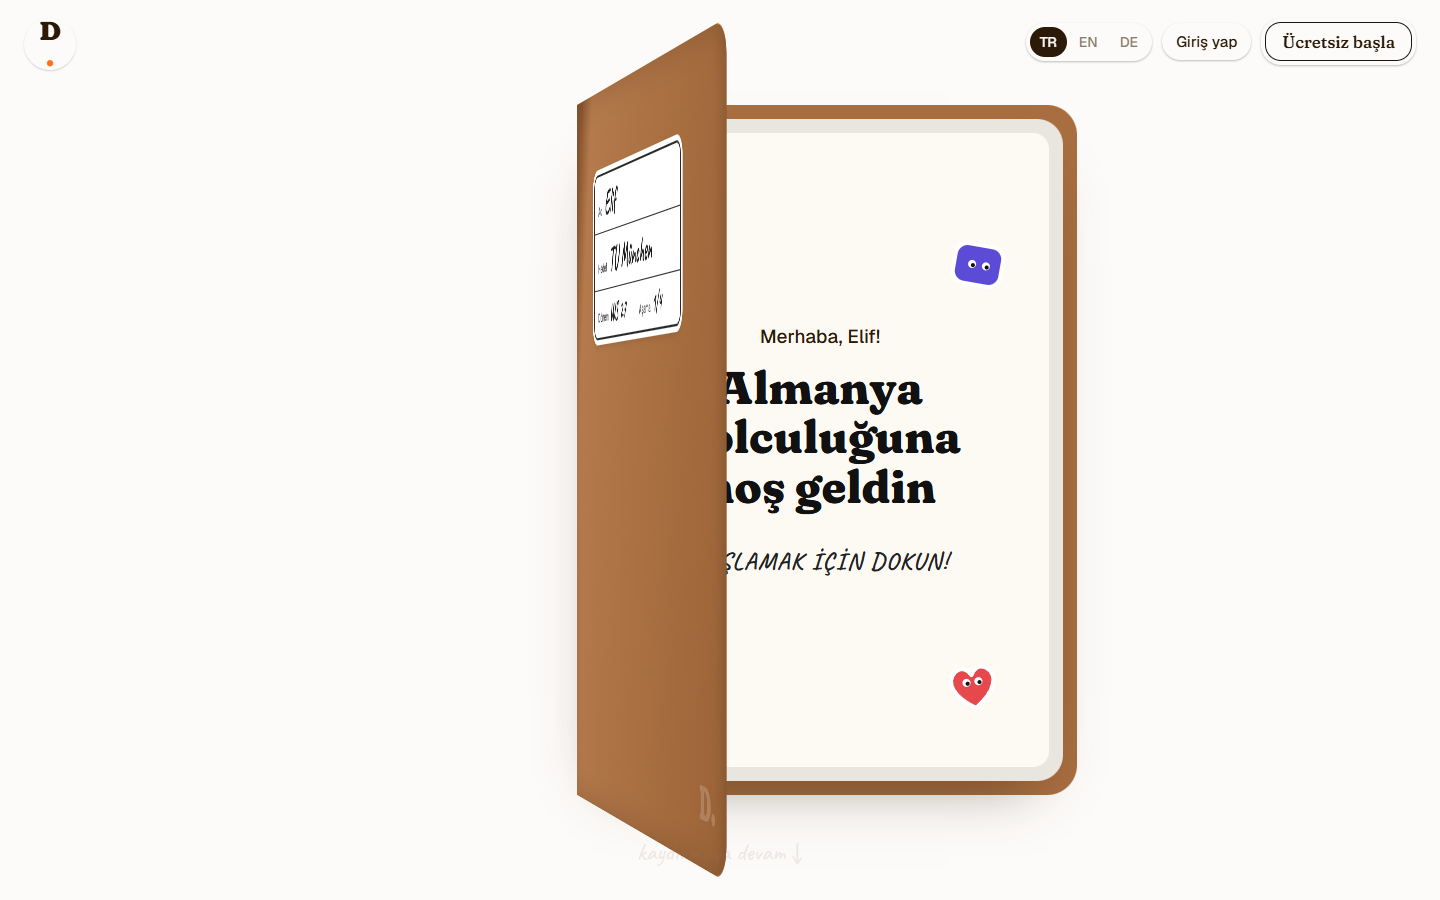
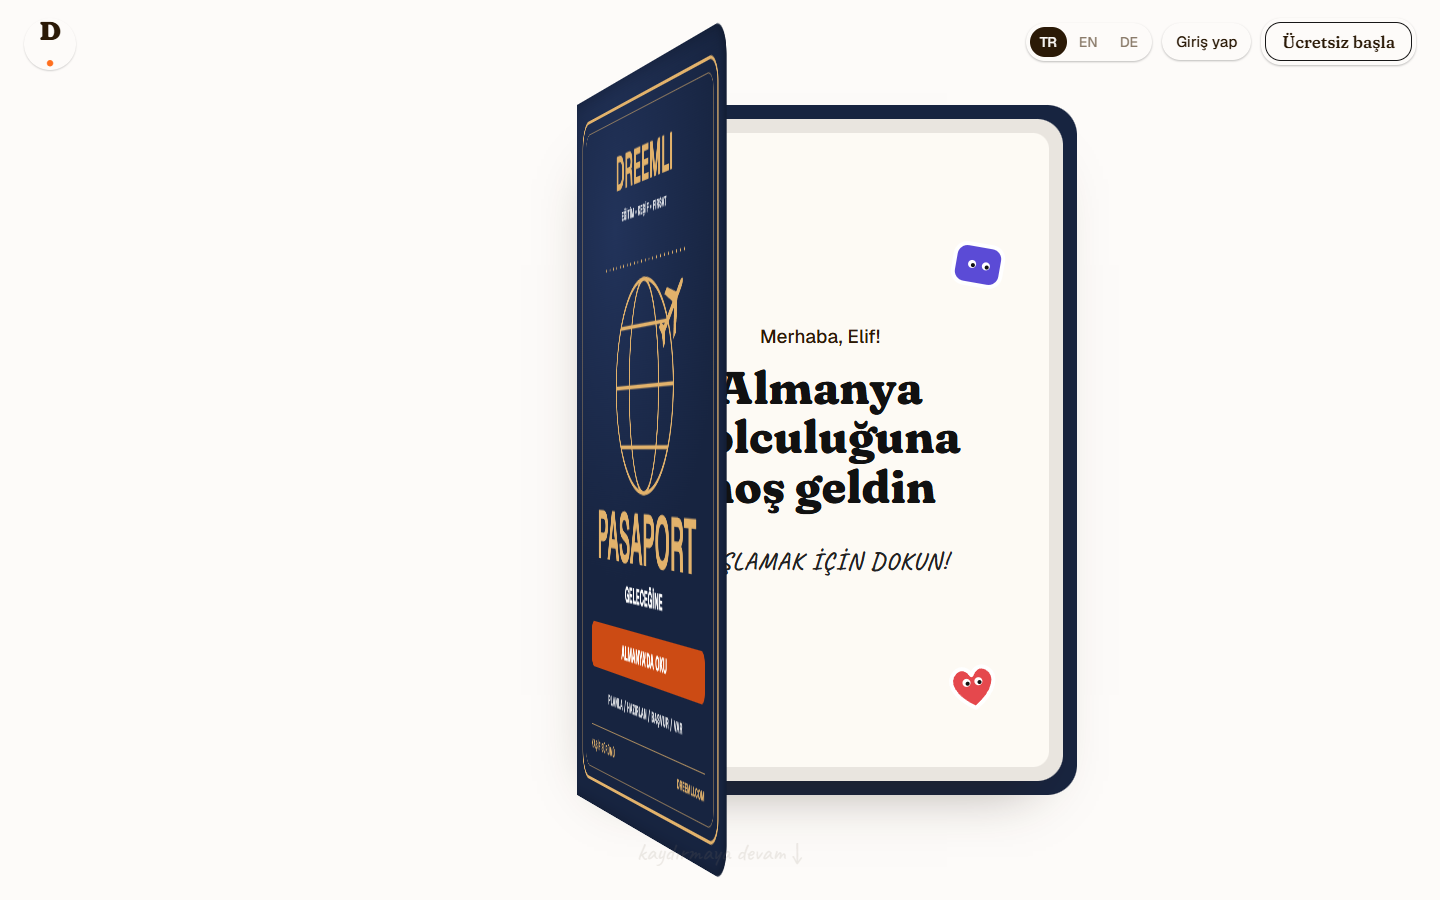
Use a passport-style cover in the paper-notebook example
Rebuild the cover of Dreemli's printed "Passport to your future"
booklet in HTML/SVG (navy, double gold frame, globe and plane, orange
band) and use it for both the hero notebook and the scroll-opening
cover, in TR/EN/DE. Document the "cover from print material" option in
SKILL.md and the components reference, and refresh the screenshots.

Changed region(s): [[0.375, 0.0311, 0.75, 0.9644]]

diff --git a/skills/paper-notebook-landing/example/index.html b/skills/paper-notebook-landing/example/index.html
@@ -26,6 +26,7 @@
   --sticky:#fadb4b; --sticky-2:#f5cf30;
   --red:#e5484d;
   --leather:#a86e40;
+  --navy:#172440; --gold:#e2b26b; --brand-orange:#cc4b14;   /* Dreemli pasaport broşürü */
   --f-display:"Fraunces","Gelica","Recoleta",Georgia,serif;
   --f-body:"Geist","Inter",system-ui,sans-serif;
   --f-hand:"Caveat","Segoe Print",cursive;
@@ -72,22 +73,29 @@ svg text{font-family:var(--f-hand)}
 .scroll-hint{font-size:24px;color:var(--muted);margin-top:8px}
 
 .book-stage{position:relative;height:520px}
-.book{position:absolute;right:40px;top:10px;width:380px;height:500px;border-radius:12px 26px 26px 12px;transform:rotate(-14deg);
-  background:linear-gradient(105deg,#7a4c2a 0 4%,#a26a3f 5% 12%,#b47a4b 30%,#9d6538 100%);box-shadow:inset -10px 0 24px rgba(0,0,0,.18),0 30px 50px -20px rgba(70,40,10,.45)}
-.book::after{content:"D.";position:absolute;right:24px;bottom:22px;font:900 30px var(--f-display);font-variation-settings:"SOFT" 100;color:rgba(255,255,255,.18)}
-.label{position:absolute;left:96px;top:96px;width:230px;background:#fff;border:2px solid #2a2a2a;border-radius:12px;box-shadow:0 0 0 5px #fff,0 3px 10px rgba(0,0,0,.25);font:500 11px var(--f-body);color:#333}
-.label .row{display:flex;gap:10px;align-items:baseline;padding:8px 12px;border-bottom:1.5px solid #2a2a2a}
-.label .row:last-child{border:0}
-.label .row b{font:700 30px/1 var(--f-hand);color:#1a1a1a}
-.label .split{display:grid;grid-template-columns:1fr 1fr}
-.label .split div{display:flex;gap:6px;align-items:baseline;padding:8px 12px}
-.label .split div+div{border-left:1.5px solid #2a2a2a}
-.label .split b{font:700 22px/1 var(--f-hand);color:#1a1a1a}
+.book{position:absolute;right:40px;top:10px;width:380px;height:500px;border-radius:18px;transform:rotate(-14deg);container-type:inline-size;
+  box-shadow:0 30px 50px -20px rgba(10,20,45,.55)}
+
+/* ---- pasaport kapağı (broşürdeki "Passport to your future") ---- */
+.pp{position:absolute;inset:0;border-radius:inherit;padding:4.5cqw;color:#fff;font-family:var(--f-body);
+  background:radial-gradient(120% 80% at 30% 20%,#22335a,var(--navy) 60%);box-shadow:inset -1.2cqw 0 3cqw rgba(0,0,0,.25)}
+.pp-frame{position:relative;height:100%;border:.75cqw solid var(--gold);border-radius:5cqw;padding:8cqw 7cqw 5.5cqw;
+  display:flex;flex-direction:column;align-items:center;text-align:center}
+.pp-frame::before{content:"";position:absolute;inset:2cqw;border:.3cqw solid rgba(226,178,107,.55);border-radius:3.4cqw;pointer-events:none}
+.pp-brand{font:700 8.6cqw/1 var(--f-body);color:var(--gold);letter-spacing:.03em}
+.pp-tag{font:600 2.2cqw/1.3 var(--f-body);letter-spacing:.12em;color:rgba(255,255,255,.85);margin-top:2.4cqw;white-space:nowrap}
+.pp-globe{flex:1 1 0;min-height:0;width:100%;margin:3cqw 0 1cqw}
+.pp-title{font:800 12.5cqw/1 var(--f-body);color:var(--gold);letter-spacing:.02em}
+.pp-sub{font:700 3.8cqw/1.2 var(--f-body);letter-spacing:.06em;margin-top:2cqw}
+.pp-cta{margin-top:4cqw;width:100%;background:var(--brand-orange);border-radius:2cqw;padding:2.6cqw 2cqw;font:700 3.4cqw/1.1 var(--f-body);letter-spacing:.04em;white-space:nowrap}
+.pp-stages{font:600 2.4cqw/1.3 var(--f-body);letter-spacing:.1em;color:rgba(255,255,255,.85);margin-top:4cqw;white-space:nowrap}
+.pp-foot{margin-top:4cqw;width:100%;display:flex;justify-content:space-between;gap:2cqw;border-top:.3cqw solid rgba(226,178,107,.7);padding-top:2.4cqw;
+  font:700 2.1cqw/1.2 var(--f-body);letter-spacing:.08em;color:var(--gold)}
 .pencil{position:absolute;right:6px;top:120px;width:20px;height:380px;transform:rotate(-16deg);border-radius:4px 4px 0 0;
   background:linear-gradient(90deg,#e7a900,#ffcf2e 40%,#f5bd00);box-shadow:2px 6px 10px rgba(0,0,0,.2)}
 .pencil::before{content:"";position:absolute;top:-22px;left:0;width:20px;height:24px;border-radius:6px 6px 0 0;background:linear-gradient(#ef8a8a 0 60%,#c9c9c9 60%)}
 .pencil::after{content:"";position:absolute;bottom:-30px;left:0;border-left:10px solid transparent;border-right:10px solid transparent;border-top:30px solid #f1d2a8}
-.book-stage .hand.tag{position:absolute;left:10px;bottom:30px;font-size:24px;transform:rotate(-4deg);color:var(--ink)}
+.book-stage .hand.tag{position:absolute;right:30px;bottom:-56px;font-size:24px;transform:rotate(-4deg);color:var(--ink)}
 
 /* ---- kaydırınca açılan defter ---- */
 main{overflow-x:clip}
@@ -97,13 +105,13 @@ main{overflow-x:clip}
 /* --dx/--dy/--rot/--s: hero'daki yerinden sahnenin ortasına taşınma; --p: kapağın açılması */
 .ob-book{position:relative;width:min(1000px,94vw);aspect-ratio:1.45;perspective:2400px;container-type:inline-size;transform-origin:75% 50%;
   transform:translate(calc(var(--dx) * 1px),calc(var(--dy) * 1px)) translateX(calc(-25% * (1 - var(--p)))) rotate(calc(var(--rot) * 1deg)) scale(var(--s))}
-.ob-left{position:absolute;inset:0 50% 0 0;border-radius:3cqw 0 0 3cqw;background:linear-gradient(90deg,#9a6337,var(--leather));
+.ob-left{position:absolute;inset:0 50% 0 0;border-radius:3cqw 0 0 3cqw;background:linear-gradient(90deg,#121d36,var(--navy));
   box-shadow:inset 10px 0 30px rgba(0,0,0,.15);opacity:var(--p)}
-.ob-left .emb{position:absolute;left:6cqw;bottom:5cqw;font:900 5cqw/1 var(--f-display);font-variation-settings:"SOFT" 100;color:rgba(255,255,255,.18)}
-.ob-left .pocket{position:absolute;left:7cqw;right:7cqw;top:7cqw;height:20cqw;border:2px dashed rgba(255,255,255,.35);border-radius:1.6cqw;display:grid;place-items:center;
+.ob-left .emb{position:absolute;left:6cqw;bottom:5cqw;font:700 4.4cqw/1 var(--f-body);letter-spacing:.04em;color:rgba(226,178,107,.35)}
+.ob-left .pocket{position:absolute;left:7cqw;right:7cqw;top:7cqw;height:20cqw;border:2px dashed rgba(226,178,107,.55);border-radius:1.6cqw;display:grid;place-items:center;
   font:700 2.6cqw/1.1 var(--f-hand);color:rgba(255,255,255,.75);text-align:center}
 .ob-page{position:absolute;inset:1.4cqw 1.4cqw 1.4cqw 50%;background:#e9e5df;border-radius:0 2.6cqw 2.6cqw 0;padding:1.4cqw;box-shadow:0 30px 60px -30px rgba(40,25,10,.5)}
-.ob-page::before{content:"";position:absolute;inset:-1.4cqw -1.4cqw -1.4cqw 0;z-index:-1;border-radius:0 3cqw 3cqw 0;background:var(--leather)}
+.ob-page::before{content:"";position:absolute;inset:-1.4cqw -1.4cqw -1.4cqw 0;z-index:-1;border-radius:0 3cqw 3cqw 0;background:var(--navy)}
 .ob-screen{height:100%;background:#fdfaf4;border-radius:.6cqw 1.6cqw 1.6cqw .6cqw;display:grid;place-items:center;align-content:center;gap:1.4cqw;text-align:center;position:relative;padding:3cqw}
 .ob-screen .hi{font:500 1.9cqw var(--f-body)}
 .ob-screen h2{font:800 4.6cqw/1.08 var(--f-display);font-variation-settings:"SOFT" 100,"WONK" 1;color:#111}
@@ -116,13 +124,8 @@ main{overflow-x:clip}
 .stk.d{right:10%;bottom:8%;transform:rotate(-8deg)}
 .ob-cover{position:absolute;inset:0 0 0 50%;transform-origin:left center;transform-style:preserve-3d;transform:rotateY(calc(-178deg * var(--p)))}
 .ob-cover .face{position:absolute;inset:0;backface-visibility:hidden;-webkit-backface-visibility:hidden;border-radius:0 3cqw 3cqw 0}
-.ob-cover .front{background:linear-gradient(100deg,#8a5630 0 3%,#b47a4b 10%,#a86e40 60%,#9a6337);box-shadow:inset -1cqw 0 3cqw rgba(0,0,0,.15)}
-.ob-cover .back{transform:rotateY(180deg);background:linear-gradient(270deg,#9a6337,var(--leather))}
-.ob-cover .label{left:7cqw;top:8cqw;width:30cqw;font-size:1.2cqw;border-radius:1.4cqw}
-.ob-cover .label .row,.ob-cover .label .split div{padding:1cqw 1.4cqw}
-.ob-cover .label .row b{font-size:3.4cqw}
-.ob-cover .label .split b{font-size:2.5cqw}
-.ob-cover .front::after{content:"D.";position:absolute;right:3cqw;bottom:3cqw;font:900 4cqw var(--f-display);color:rgba(255,255,255,.18)}
+.ob-cover .front{container-type:inline-size}
+.ob-cover .back{transform:rotateY(180deg);background:linear-gradient(270deg,#121d36,var(--navy))}
 .ob-hint{position:absolute;bottom:4vh;left:0;right:0;text-align:center;font-size:24px;color:var(--muted);opacity:calc(1 - var(--p) * 2)}
 
 /* ---- yapışkan notlar ---- */
@@ -290,7 +293,6 @@ details p{font:400 17px/1.6 var(--f-body);color:#5a4a3a;padding-bottom:20px;max-
   .hero-grid{grid-template-columns:1fr}
   .book-stage{height:440px}
   .book{right:auto;left:50%;margin-left:-170px;width:320px;height:420px}
-  .book-stage .label{left:60px;top:80px;width:210px}
   .scene-inner,.scene.right .scene-inner{grid-template-columns:1fr}
   .scene.right .panel{order:0}
   .scene{min-height:0}
@@ -308,7 +310,6 @@ details p{font:400 17px/1.6 var(--f-body);color:#5a4a3a;padding-bottom:20px;max-
   .hero{padding-top:100px}
   .anno .hand{position:static;display:inline-block;margin:0 0 0 4px}
   .book{margin-left:-140px;width:270px;height:360px}
-  .book-stage .label{left:36px;top:64px;width:200px}
   .pencil{height:300px}
   .opener{height:200vh}
   .ob-book{aspect-ratio:1.15}
@@ -390,13 +391,27 @@ details p{font:400 17px/1.6 var(--f-body);color:#5a4a3a;padding-bottom:20px;max-
       <div class="book-stage" aria-hidden="true">
         <!-- Defter buradan başlar; kaydırınca aşağıdaki büyük deftere taşınır. JS yoksa bu statik kopya görünür. -->
         <div class="book book-slot">
-          <div class="label">
-            <div class="row"><span>Ad</span><b>Elif</b></div>
-            <div class="row"><span>Hedef</span><b>TU München</b></div>
-            <div class="split"><div><span>Dönem</span><b>WS 27</b></div><div><span>Aşama</span><b>1/4</b></div></div>
+          <div class="pp">
+            <div class="pp-frame">
+              <span class="pp-brand">DREEMLI</span>
+              <span class="pp-tag">EĞİTİM • KEŞİF • FIRSAT</span>
+              <svg class="pp-globe" viewBox="0 0 220 175" aria-hidden="true">
+                <path d="M14 18H206" stroke="#e2b26b" stroke-width="2.2" stroke-dasharray="0.1 9" stroke-linecap="round"/>
+                <g fill="none" stroke="#e2b26b" stroke-width="2.6">
+                  <circle cx="110" cy="100" r="70"/><ellipse cx="110" cy="100" rx="36" ry="70"/>
+                  <path d="M52.6 60H167.4M40 100H180M52.6 140H167.4"/>
+                </g>
+                <path transform="translate(178 52) rotate(-35)" fill="#e2b26b" d="M-22-2.5H2L-10-18h7L12-2.5h10c4 0 6 1.2 6 2.5s-2 2.5-6 2.5H12L-3 18h-7L2 2.5h-24l-5 6h-5l3-8.5-3-8.5h5z"/>
+              </svg>
+              <span class="pp-title">PASAPORT</span>
+              <span class="pp-sub">GELECEĞİNE</span>
+              <span class="pp-cta">ALMANYA'DA OKU</span>
+              <span class="pp-stages">PLANLA / HAZIRLAN / BAŞVUR / VAR</span>
+              <span class="pp-foot"><span>KAŞİF SÜRÜMÜ</span><span>DREEMLI.COM</span></span>
+            </div>
           </div>
         </div>
-        <span class="hand tag">kaydırın, defter açılsın ↓</span>
+        <span class="hand tag">kaydırın, pasaport açılsın ↓</span>
       </div>
     </div>
   </section>
@@ -418,14 +433,28 @@ details p{font:400 17px/1.6 var(--f-body);color:#5a4a3a;padding-bottom:20px;max-
         </div>
         <div class="ob-cover" aria-hidden="true">
           <div class="face front">
-            <div class="label">
-              <div class="row"><span>Ad</span><b>Elif</b></div>
-              <div class="row"><span>Hedef</span><b>TU München</b></div>
-              <div class="split"><div><span>Dönem</span><b>WS 27</b></div><div><span>Aşama</span><b>1/4</b></div></div>
+          <div class="pp">
+            <div class="pp-frame">
+              <span class="pp-brand">DREEMLI</span>
+              <span class="pp-tag">EĞİTİM • KEŞİF • FIRSAT</span>
+              <svg class="pp-globe" viewBox="0 0 220 175" aria-hidden="true">
+                <path d="M14 18H206" stroke="#e2b26b" stroke-width="2.2" stroke-dasharray="0.1 9" stroke-linecap="round"/>
+                <g fill="none" stroke="#e2b26b" stroke-width="2.6">
+                  <circle cx="110" cy="100" r="70"/><ellipse cx="110" cy="100" rx="36" ry="70"/>
+                  <path d="M52.6 60H167.4M40 100H180M52.6 140H167.4"/>
+                </g>
+                <path transform="translate(178 52) rotate(-35)" fill="#e2b26b" d="M-22-2.5H2L-10-18h7L12-2.5h10c4 0 6 1.2 6 2.5s-2 2.5-6 2.5H12L-3 18h-7L2 2.5h-24l-5 6h-5l3-8.5-3-8.5h5z"/>
+              </svg>
+              <span class="pp-title">PASAPORT</span>
+              <span class="pp-sub">GELECEĞİNE</span>
+              <span class="pp-cta">ALMANYA'DA OKU</span>
+              <span class="pp-stages">PLANLA / HAZIRLAN / BAŞVUR / VAR</span>
+              <span class="pp-foot"><span>KAŞİF SÜRÜMÜ</span><span>DREEMLI.COM</span></span>
             </div>
           </div>
+          </div>
           <div class="face back ob-left" style="inset:0;opacity:1;border-radius:3cqw 0 0 3cqw">
-            <div class="pocket">pasaport · transkript ·<br>dil belgesi buraya</div>
+            <div class="pocket">transkript · diploma ·<br>dil belgesi buraya</div>
             <span class="emb">Dreemli.</span>
           </div>
         </div>
@@ -781,13 +810,18 @@ details p{font:400 17px/1.6 var(--f-body);color:#5a4a3a;padding-bottom:20px;max-
     "Hedef":["Goal","Ziel"],
     "Dönem":["Term","Semester"],
     "Aşama":["Stage","Phase"],
-    "kaydırın, defter açılsın ↓":["scroll to open the notebook ↓","scrollen, das Heft öffnet sich ↓"],
+    "kaydırın, pasaport açılsın ↓":["scroll to open the passport ↓","scrollen, der Pass öffnet sich ↓"],
+    "EĞİTİM • KEŞİF • FIRSAT":["EDUCATION • EXPLORATION • OPPORTUNITY","BILDUNG • ENTDECKUNG • CHANCE"],
+    "GELECEĞİNE":["TO YOUR FUTURE","IN DEINE ZUKUNFT"],
+    "ALMANYA'DA OKU":["STUDY IN GERMANY","STUDIEREN IN DEUTSCHLAND"],
+    "PLANLA / HAZIRLAN / BAŞVUR / VAR":["PLAN / PREPARE / APPLY / ARRIVE","PLANEN / VORBEREITEN / BEWERBEN / ANKOMMEN"],
+    "KAŞİF SÜRÜMÜ":["THE EXPLORER EDITION","EXPLORER-EDITION"],
     "Merhaba, Elif!":["Hello, Elif!","Hallo, Elif!"],
     "Almanya":["Welcome","Willkommen"],
     "yolculuğuna":["to your Germany","zu deiner"],
     "hoş geldin":["journey","Deutschland-Reise"],
     "BAŞLAMAK İÇİN DOKUN!":["TAP TO START!","ZUM STARTEN TIPPEN!"],
-    "pasaport · transkript ·":["passport · transcript ·","Pass · Zeugnisse ·"],
+    "transkript · diploma ·":["transcript · diploma ·","Zeugnisse · Diplom ·"],
     "dil belgesi buraya":["language certificate here","Sprachnachweis hierhin"],
     "kaydırmaya devam ↓":["keep scrolling ↓","weiter scrollen ↓"],
     "Her şeyiiiiiii tek yerde.":["Everyyyyything in one place.","Alleeeees an einem Ort."],

diff --git a/index.html b/index.html
@@ -52,7 +52,7 @@ footer a{color:inherit}
 
   <main class="grid">
     <article class="card">
-      <img src="skills/paper-notebook-landing/screenshots/01-hero.png" alt="Paper notebook landing page: lowercase serif headline and a leather notebook with a name label">
+      <img src="skills/paper-notebook-landing/screenshots/01-hero.png" alt="Paper notebook landing page: lowercase serif headline and a tilted navy passport-style notebook cover">
       <div class="body">
         <h2>paper-notebook-landing</h2>
         <p>Warm paper-notebook landing pages: cream paper, chunky soft serif, handwritten notes, sticky notes, a notebook that opens as you scroll, comic strips.</p>

diff --git a/skills/paper-notebook-landing/SKILL.md b/skills/paper-notebook-landing/SKILL.md
@@ -45,9 +45,12 @@ Use the client's own brand name, content and facts.
 
 Use these in roughly this order. Each has a ready snippet in `references/components.md`.
 
-1. **Hero + name-label notebook** – greeting, lowercase headline, one-line subtitle with a handwritten aside
-   ("in one place. *really!*"), dibs CTA, small muted note. Right: a leather notebook with a white name label
-   (Name / Goal / Term / Stage 1/4). The label personalises the product with a sample user.
+1. **Hero + notebook cover** – greeting, lowercase headline, one-line subtitle with a handwritten aside
+   ("in one place. *really!*"), dibs CTA, small muted note. Right: a tilted notebook. Two cover options:
+   * a leather notebook with a white name label (Name / Goal / Term / Stage 1/4) that personalises it with a sample user;
+   * a cover adapted from the client's own print material. If they have a brochure, booklet or flyer cover, rebuild it
+     in HTML/SVG at cover size (container-query units) so the web and print match. The example does this with Dreemli's
+     "Passport to your future" booklet: navy, double gold frame, gold globe and plane, orange "Study in Germany" band.
 2. **Scroll-driven notebook** – the hero notebook *travels* down as the user scrolls (straightens, grows, centres), then its
    cover opens to reveal a welcome page with eyed stickers and "TAP TO START!". One notebook, one continuous motion.
 3. **Sticky notes** – centred serif line with a stretched word ("Everyyyyything in one place.") and 4 rotated yellow notes

diff --git a/skills/paper-notebook-landing/README.md b/skills/paper-notebook-landing/README.md
@@ -32,6 +32,7 @@ paper-notebook-landing/
 ## Features of the example page
 
 - **Scroll-driven notebook** – the notebook in the hero travels down, straightens and grows as you scroll, then its cover opens.
+  The cover recreates Dreemli's printed "Passport to your future" booklet, so web and print match.
 - **Three languages** – TR / EN / DE switch in the top-right corner; the choice is remembered.
 - **Auto-sizing comic speech bubbles** – bubbles are drawn around the measured text, so they fit in every language.
 - **Interactive panels** – roman-numeral feature lists update a device mock (e.g. the 4 stages Plan → Prepare → Apply → Arrive).

diff --git a/skills/paper-notebook-landing/references/components.md b/skills/paper-notebook-landing/references/components.md
@@ -83,6 +83,10 @@ Chunky headline: `font-weight:900; font-variation-settings:"SOFT" 100,"WONK" 1,"
 
 ## 3. Hero with name-label notebook
 
+> Variant used in the example: a **passport cover** built from the client's print booklet (`.pp`, `.pp-frame`,
+> `.pp-globe`, `.pp-title`, `.pp-cta` in `../example/index.html`). Give the cover element `container-type:inline-size`
+> and size everything in `cqw`, so the same markup works on the small hero cover and the large opening cover.
+
 ```html
 <section class="hero"><div class="wrap hero-grid">
   <div class="hero-copy">
